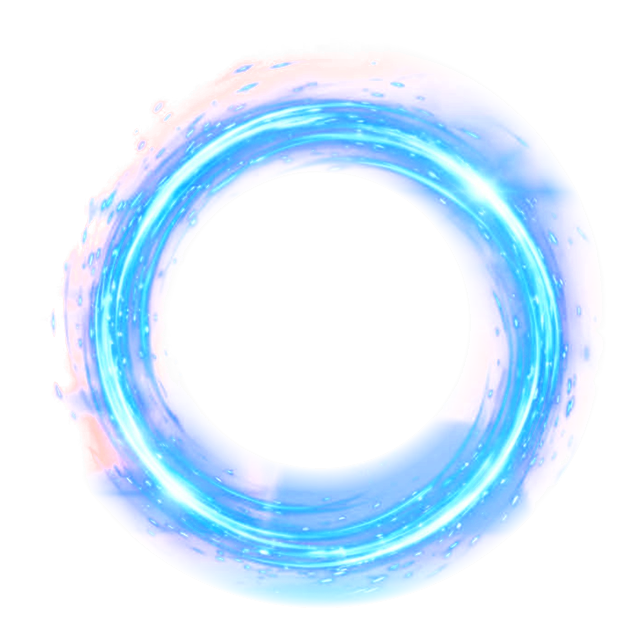
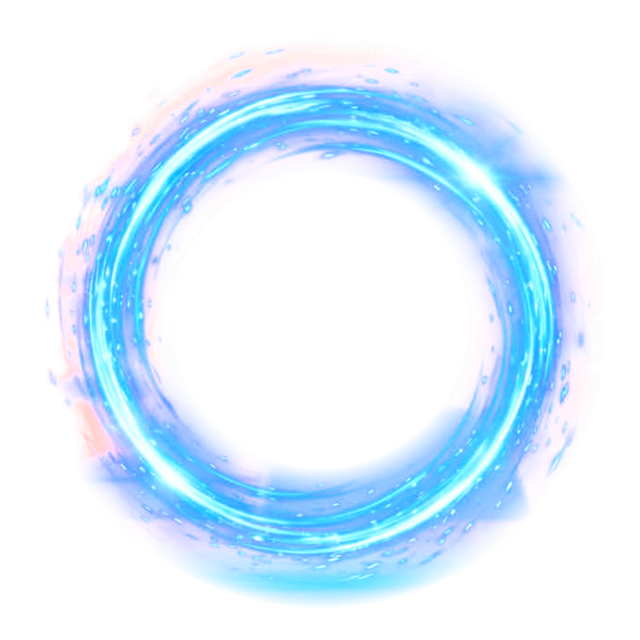
Pensando: halo dorado, anillos HUD, órbitas tipo cometa y polvo; centrado de anillo y carita
Claude-Session: https://claude.ai/code/session_01AEiYh5ez22yZfPC4hokXJr

Changed region(s): [[0.0625, 0.0938, 0.9375, 0.9375]]

diff --git a/www/index.html b/www/index.html
@@ -37,7 +37,7 @@ header{display:flex;align-items:center;justify-content:space-between;padding:14p
 .hdr-r{display:flex;gap:8px}
 
 main{flex:1;display:flex;flex-direction:column;align-items:center;min-height:0;padding:0 16px}
-.hud-wrap{position:relative;width:min(78vw,340px);aspect-ratio:1;margin:6px auto 0;flex-shrink:0;cursor:pointer}
+.hud-wrap{--w:min(78vw,340px);position:relative;width:min(78vw,340px);aspect-ratio:1;margin:6px auto 0;flex-shrink:0;cursor:pointer}
 .hud{width:100%;height:100%;overflow:visible}
 .hud *{transform-origin:150px 150px;transition:stroke .4s,fill .4s}
 .hud .s{fill:none;stroke:var(--c)}
@@ -83,9 +83,23 @@ body[data-state=speaking] .r4{animation-duration:5s}
 .orbimg .ojos i{display:block;width:34%;height:100%;border-radius:50%;background:radial-gradient(ellipse,#fff 0,var(--c) 55%,transparent 100%);box-shadow:0 0 16px var(--c);animation:parpadeo 4.2s infinite;transform-origin:50% 50%}
 @keyframes mira{0%,100%{transform:translateX(0)}30%{transform:translateX(9%)}60%{transform:translateX(-9%)}}
 @keyframes parpadeo{0%,90%,100%{transform:scaleY(1)}94%{transform:scaleY(.08)}}
+/* HUD de anillos, halo dorado, cometas y polvo (pensando) */
+.orbimg .hg{position:absolute;inset:0;width:100%;height:100%;opacity:0;transition:opacity .7s 1.1s}
+.orbimg .hg *{transform-origin:150px 150px}
+.orbimg .hg .s{fill:none;stroke:var(--c)}
+.orbimg .halo{position:absolute;inset:0;opacity:0;transition:opacity .8s 1.0s,transform .9s 1.0s;transform:scale(.7)}
+.orbimg .halo .sp-i img{position:absolute;inset:0;width:100%;height:100%;filter:hue-rotate(165deg) saturate(.7) brightness(1.4)}
+.orbimg .dust{position:absolute;left:50%;top:50%;width:3px;height:3px;margin:-1.5px;border-radius:50%;opacity:0;transition:opacity .8s 1.2s}
+.orbimg .d1{box-shadow:calc(var(--w)*-0.100) calc(var(--w)*0.200) 0 1px var(--c),calc(var(--w)*0.399) calc(var(--w)*0.125) 0 0px var(--c),calc(var(--w)*-0.131) calc(var(--w)*0.147) 0 1px var(--c),calc(var(--w)*0.045) calc(var(--w)*0.200) 0 0px var(--c),calc(var(--w)*0.187) calc(var(--w)*0.088) 0 0px var(--c),calc(var(--w)*0.321) calc(var(--w)*0.125) 0 0px var(--c),calc(var(--w)*-0.238) calc(var(--w)*-0.255) 0 0px var(--c),calc(var(--w)*-0.261) calc(var(--w)*-0.137) 0 0px var(--c),calc(var(--w)*0.411) calc(var(--w)*0.124) 0 0px var(--c),calc(var(--w)*-0.294) calc(var(--w)*0.164) 0 1px var(--c),calc(var(--w)*-0.150) calc(var(--w)*0.389) 0 0px var(--c),calc(var(--w)*0.276) calc(var(--w)*0.208) 0 0px var(--c),calc(var(--w)*-0.236) calc(var(--w)*0.244) 0 0px var(--c),calc(var(--w)*-0.331) calc(var(--w)*-0.141) 0 0px var(--c),calc(var(--w)*-0.129) calc(var(--w)*-0.275) 0 0px var(--c),calc(var(--w)*-0.437) calc(var(--w)*0.096) 0 0px var(--c),calc(var(--w)*-0.126) calc(var(--w)*0.390) 0 1px var(--c),calc(var(--w)*0.038) calc(var(--w)*-0.200) 0 0px var(--c),calc(var(--w)*-0.428) calc(var(--w)*-0.068) 0 1px var(--c),calc(var(--w)*-0.338) calc(var(--w)*0.113) 0 0px var(--c),calc(var(--w)*0.222) calc(var(--w)*0.204) 0 0px var(--c),calc(var(--w)*0.186) calc(var(--w)*0.263) 0 0px var(--c),calc(var(--w)*0.197) calc(var(--w)*-0.048) 0 1px var(--c),calc(var(--w)*-0.389) calc(var(--w)*-0.192) 0 0px var(--c),calc(var(--w)*-0.151) calc(var(--w)*0.238) 0 0px var(--c),calc(var(--w)*-0.274) calc(var(--w)*-0.150) 0 0px var(--c),calc(var(--w)*0.298) calc(var(--w)*-0.108) 0 1px var(--c),calc(var(--w)*0.360) calc(var(--w)*0.156) 0 0px var(--c),calc(var(--w)*-0.282) calc(var(--w)*-0.374) 0 0px var(--c),calc(var(--w)*-0.063) calc(var(--w)*0.285) 0 1px var(--c),calc(var(--w)*-0.259) calc(var(--w)*0.371) 0 0px var(--c),calc(var(--w)*0.105) calc(var(--w)*0.186) 0 0px var(--c),calc(var(--w)*0.052) calc(var(--w)*0.258) 0 1px var(--c),calc(var(--w)*0.004) calc(var(--w)*0.293) 0 0px var(--c);animation:spin 40s linear infinite}
+.orbimg .d2{box-shadow:calc(var(--w)*0.302) calc(var(--w)*0.168) 0 1px var(--c),calc(var(--w)*-0.045) calc(var(--w)*0.254) 0 0px var(--c),calc(var(--w)*0.196) calc(var(--w)*-0.225) 0 0px var(--c),calc(var(--w)*0.410) calc(var(--w)*-0.035) 0 0px var(--c),calc(var(--w)*0.253) calc(var(--w)*-0.069) 0 0px var(--c),calc(var(--w)*0.235) calc(var(--w)*0.329) 0 0px var(--c),calc(var(--w)*-0.383) calc(var(--w)*0.036) 0 0px var(--c),calc(var(--w)*-0.052) calc(var(--w)*0.256) 0 1px var(--c),calc(var(--w)*-0.258) calc(var(--w)*0.277) 0 0px var(--c),calc(var(--w)*-0.133) calc(var(--w)*-0.339) 0 1px var(--c),calc(var(--w)*-0.240) calc(var(--w)*-0.353) 0 0px var(--c),calc(var(--w)*0.354) calc(var(--w)*-0.259) 0 1px var(--c),calc(var(--w)*0.098) calc(var(--w)*-0.315) 0 0px var(--c),calc(var(--w)*-0.279) calc(var(--w)*0.219) 0 0px var(--c),calc(var(--w)*0.221) calc(var(--w)*0.091) 0 0px var(--c),calc(var(--w)*-0.234) calc(var(--w)*0.091) 0 1px var(--c),calc(var(--w)*0.208) calc(var(--w)*0.071) 0 0px var(--c),calc(var(--w)*-0.473) calc(var(--w)*-0.111) 0 1px var(--c),calc(var(--w)*0.459) calc(var(--w)*0.074) 0 1px var(--c),calc(var(--w)*-0.283) calc(var(--w)*0.279) 0 0px var(--c),calc(var(--w)*-0.282) calc(var(--w)*-0.211) 0 0px var(--c),calc(var(--w)*0.290) calc(var(--w)*-0.405) 0 0px var(--c),calc(var(--w)*-0.305) calc(var(--w)*0.038) 0 0px var(--c),calc(var(--w)*0.253) calc(var(--w)*0.189) 0 0px var(--c),calc(var(--w)*-0.410) calc(var(--w)*0.055) 0 1px var(--c),calc(var(--w)*0.481) calc(var(--w)*0.070) 0 1px var(--c);animation:spin 26s linear infinite reverse}
+body[data-state=thinking] .orbimg .hg{opacity:.9}
+body[data-state=thinking] .orbimg .halo{opacity:.38;transform:scale(.84)}
+body[data-state=thinking] .orbimg .dust{opacity:.9}
 /* órbitas */
 .orbimg .orw{position:absolute;inset:0;opacity:0;transform:scale(.1);transition:transform .5s,opacity .3s}
-.orbimg .or{position:absolute;left:50%;top:50%;width:92%;height:92%;margin:-46% 0 0 -46%;border-radius:50%;border:2px solid var(--c);box-shadow:0 0 14px var(--c);opacity:.85;transform-style:preserve-3d}
+.orbimg .or{position:absolute;left:50%;top:50%;width:92%;height:92%;margin:-46% 0 0 -46%;border-radius:50%;background:conic-gradient(from 0deg,transparent 0,var(--c) 100%);-webkit-mask:radial-gradient(farthest-side,transparent calc(100% - 4px),#000 calc(100% - 3px));mask:radial-gradient(farthest-side,transparent calc(100% - 4px),#000 calc(100% - 3px));filter:drop-shadow(0 0 6px var(--c)) brightness(1.25);opacity:1;transform-style:preserve-3d}
+.orbimg .o2{background:conic-gradient(from 0deg,var(--c) 0,transparent 100%)}
+.orbimg .or i{display:none}
 .orbimg .or i{position:absolute;left:50%;top:-6px;width:11px;height:11px;margin-left:-5px;border-radius:50%;background:#fffbe8;box-shadow:0 0 12px 4px var(--c)}
 @keyframes orbA{from{transform:rotateX(72deg) rotateZ(0)}to{transform:rotateX(72deg) rotateZ(360deg)}}
 @keyframes orbB{from{transform:rotateX(72deg) rotateY(60deg) rotateZ(360deg)}to{transform:rotateX(72deg) rotateY(60deg) rotateZ(0)}}
@@ -246,7 +260,7 @@ html.desk.mini .core-hit, html.desk.mini .expand{display:grid}
     </svg>
     <div class="orbimg" aria-hidden="true">
       <div class="g gh"><div class="sp s1"><div class="sp-i"><img src="orb-anillo.webp" alt="" style="inset:0;width:100%;height:100%"></div></div><div class="sp s2"><div class="sp-i"><img src="orb-anillo.webp" alt="" style="inset:0;width:100%;height:100%"></div></div><img class="cara" src="orb-cara.webp" alt=""></div>
-      <div class="g gp"><div class="w3d"><div class="globe"><i class="m" style="--a:0deg"></i><i class="m" style="--a:30deg"></i><i class="m" style="--a:60deg"></i><i class="m" style="--a:90deg"></i><i class="m" style="--a:120deg"></i><i class="m" style="--a:150deg"></i><i class="l" style="--y:-0.75;--r:0.661"></i><i class="l" style="--y:-0.4;--r:0.917"></i><i class="l" style="--y:0;--r:1.0"></i><i class="l" style="--y:0.4;--r:0.917"></i><i class="l" style="--y:0.75;--r:0.661"></i></div></div><div class="ojos"><i></i><i></i></div><div class="orw"><div class="or o1"><i></i></div></div><div class="orw"><div class="or o2"><i></i></div></div><div class="orw"><div class="or o3"><i></i></div></div></div>
+      <div class="g gp"><svg class="hg" viewBox="0 0 300 300"><g class="r1"><circle class="s" cx="150" cy="150" r="144" stroke-width="1.2" stroke-dasharray="2 7" opacity=".7"/></g><g class="r2"><circle class="s" cx="150" cy="150" r="133" stroke-width="3" stroke-dasharray="70 18 12 18 140 30" opacity=".85"/></g><g class="r3"><circle class="s" cx="150" cy="150" r="120" stroke-width="7" stroke-dasharray="1.5 4.5" opacity=".45"/></g><g class="r4"><circle class="s" cx="150" cy="150" r="108" stroke-width="2" stroke-dasharray="110 20 40 20 60 20" opacity=".7"/></g></svg><div class="halo"><div class="sp s1"><div class="sp-i"><img src="orb-anillo.webp" alt=""></div></div><div class="sp s2"><div class="sp-i"><img src="orb-anillo.webp" alt=""></div></div></div><i class="dust d1"></i><i class="dust d2"></i><div class="w3d"><div class="globe"><i class="m" style="--a:0deg"></i><i class="m" style="--a:30deg"></i><i class="m" style="--a:60deg"></i><i class="m" style="--a:90deg"></i><i class="m" style="--a:120deg"></i><i class="m" style="--a:150deg"></i><i class="l" style="--y:-0.75;--r:0.661"></i><i class="l" style="--y:-0.4;--r:0.917"></i><i class="l" style="--y:0;--r:1.0"></i><i class="l" style="--y:0.4;--r:0.917"></i><i class="l" style="--y:0.75;--r:0.661"></i></div></div><div class="ojos"><i></i><i></i></div><div class="orw"><div class="or o1"><i></i></div></div><div class="orw"><div class="or o2"><i></i></div></div><div class="orw"><div class="or o3"><i></i></div></div></div>
       <div class="shock"></div><div class="shock"></div><div class="shock"></div>
     </div>
     <div class="core-hit" id="coreHit" title="Hablar (Ctrl+Mayús+Espacio)"></div>
